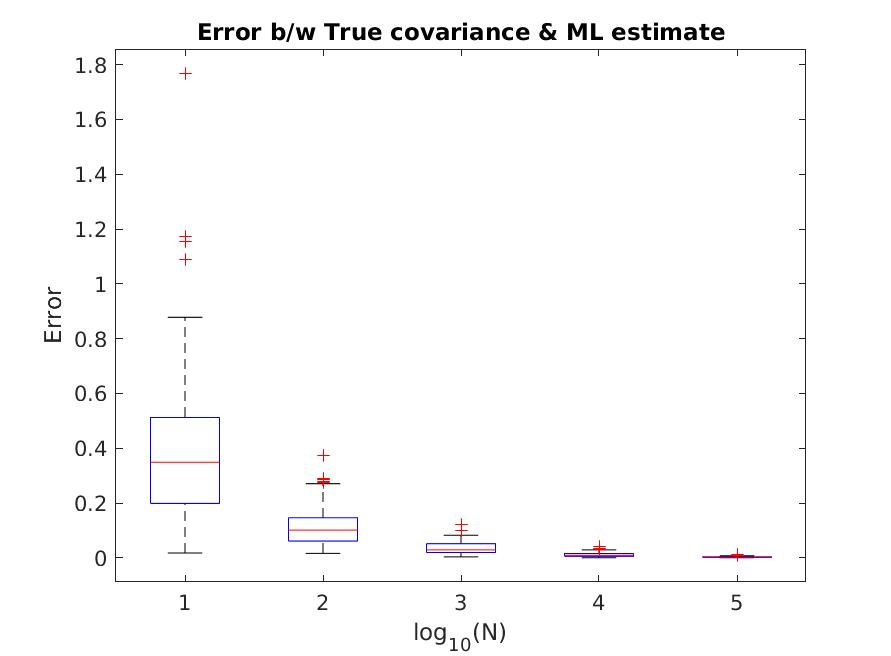
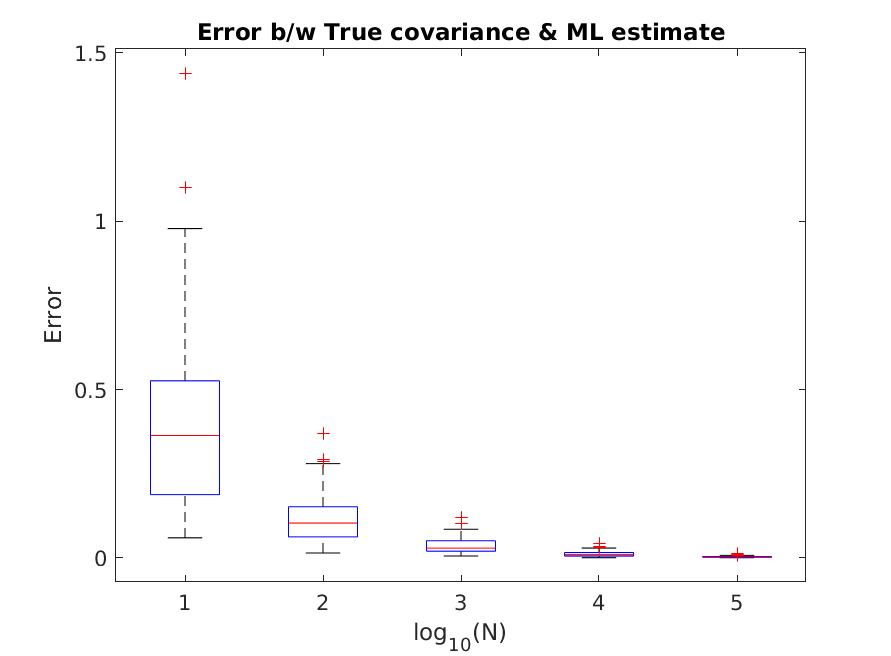
Q2: Fixed a bug in code and added comments

diff --git a/code/q2.m b/code/q2.m
@@ -6,7 +6,7 @@ close all;
 mu = [1; 2];
 cov = [1.6250 -1.9486; -1.9486 3.8750];
 [Q, D] = eig(cov);
-A = Q*sqrt(D);
+A = Q*sqrt(D); % square root of a diagonal matrix is square root of individual elements
 
 % Find norm of mu and frobenius norm of cov
 norm_mu = norm(mu);
@@ -20,17 +20,16 @@ for lN=1:5 % Looping over values of log10(N)
     N = 10^lN;
     for iter=1:100 % Repeating 100 times for a given N
         rng(2*iter); % Setting seed to reproduce results
-        x_mu = A * randn(2,N); % values from (X - mu)
-        x = x_mu + mu; % values from X
+        x = A * randn(2,N) + mu; % values from X
         
         % ML estimate of mean is sum(x)/N
         mean_mle = sum(x,2) / N;
-        % ML estimate of covariance matrix is sum((x-mu)(x-mu)')/N
-        cov_mle = x_mu*x_mu' / N;
+        % ML estimate of covariance matrix is sum((x-mu^)(x-mu^)')/N
+        cov_mle = (x-mean_mle)*(x-mean_mle)' / N;
         
         % Error measure of mean and covariance
-        mean_err(iter,lN) = norm(mu - mean_mle) / norm_mu;
-        cov_err(iter,lN) = norm(cov - cov_mle) / norm_cov;
+        mean_err(iter,lN) = norm(mu - mean_mle) / norm_mu; % Where lN = log10(N)
+        cov_err(iter,lN) = norm(cov - cov_mle) / norm_cov; % Where lN = log10(N)
     end
     
     hold off;
